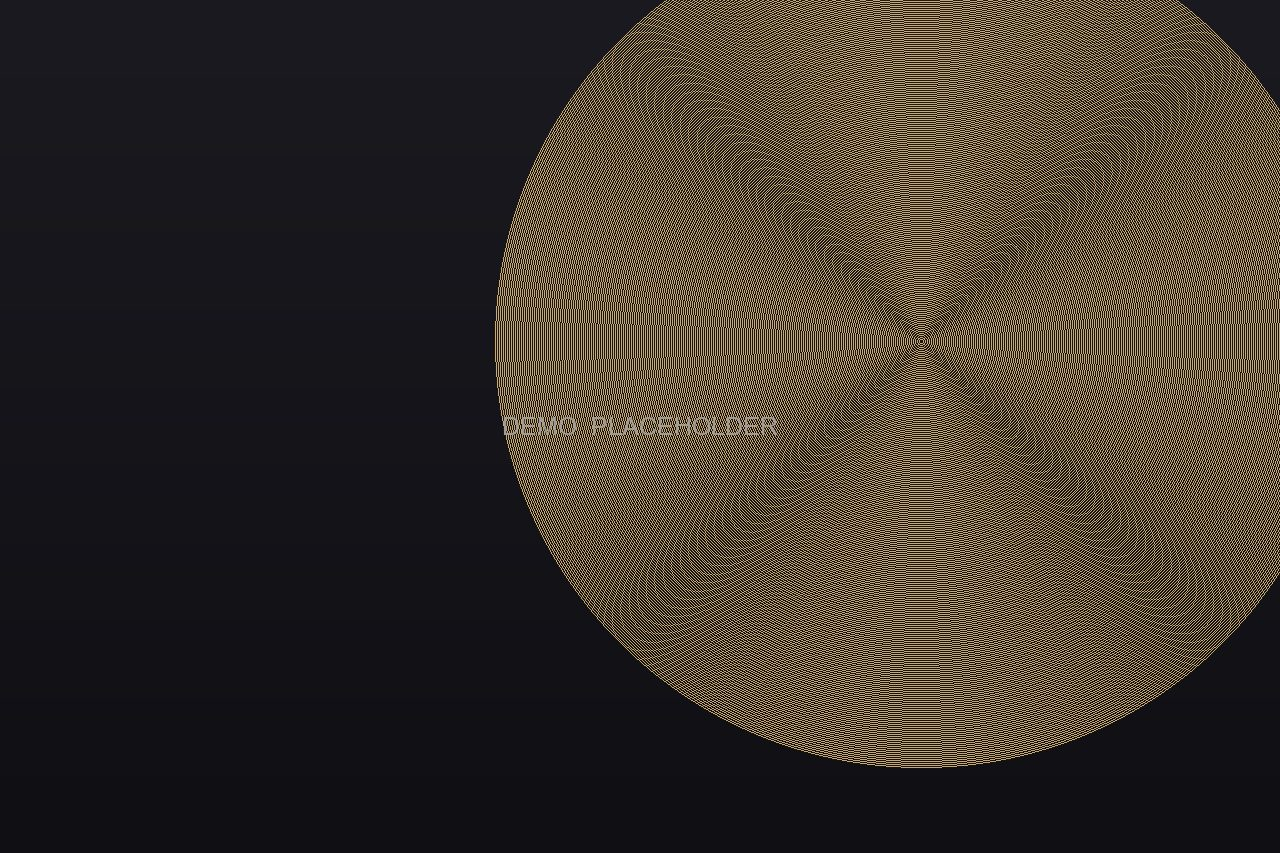
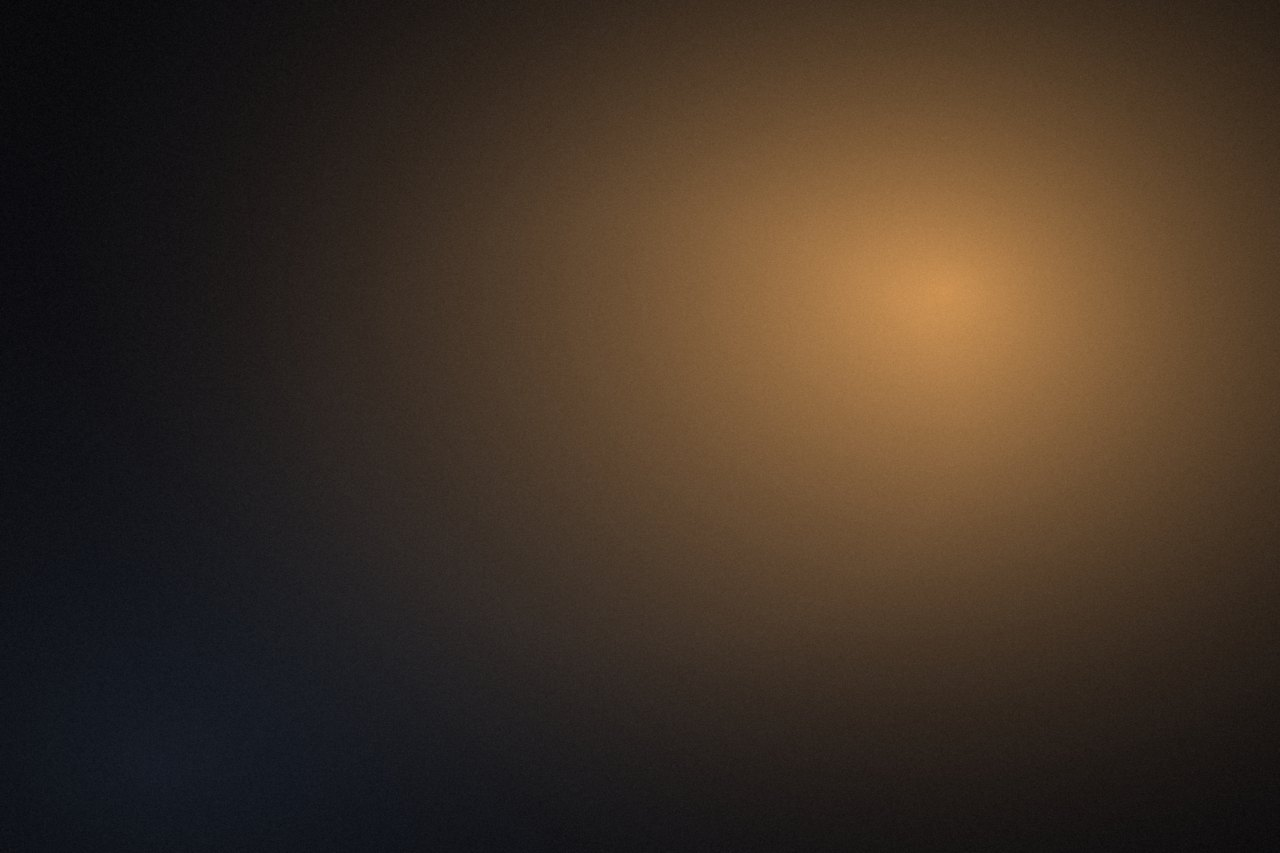
Remove signature, update hero image

diff --git a/about/index.html b/about/index.html
@@ -85,7 +85,6 @@
 <header class="nav" id="top">
   <div class="nav__inner">
     <a href="/personal-brand-cms/" class="brand" aria-label="Adrian Cole — home">
-      <img class="brand__sig" src="/personal-brand-cms/assets/img/signature-white.png" alt="" aria-hidden="true" />
       <span class="brand__lock">
         <span class="brand__mark">Adrian Cole</span>
         <span class="brand__sub">Author · Leader</span>
@@ -184,7 +183,6 @@
             <li><span class="mk"></span> an entrepreneurship program · an advisory council · a global executive program alumnus</li>
           </ul>
           <div class="story__sign" data-reveal data-reveal-delay="3" style="margin-top:2.2rem">
-            <img src="/personal-brand-cms/assets/img/signature-white.png" alt="Adrian Cole signature" width="130" loading="lazy" />
             <div>
               <div class="who">Adrian Cole</div>
               <div class="role">FCA · Author · Founder</div>
@@ -413,7 +411,6 @@
       <div class="footer__brand">
         <span class="brand__mark">Adrian Cole</span>
         <p class="footer__tag">Author, entrepreneur and business leader writing at the intersection of inner growth and the human systems through which we create meaning.</p>
-        <img class="footer__sign" src="/personal-brand-cms/assets/img/signature-white.png" alt="Adrian Cole signature" loading="lazy" />
       </div>
       <div class="footer__col">
         <h4>Explore</h4>

diff --git a/through-the-storm/index.html b/through-the-storm/index.html
@@ -74,7 +74,6 @@
 <header class="nav" id="top">
   <div class="nav__inner">
     <a href="/personal-brand-cms/" class="brand" aria-label="Adrian Cole — home">
-      <img class="brand__sig" src="/personal-brand-cms/assets/img/signature-white.png" alt="" aria-hidden="true" />
       <span class="brand__lock">
         <span class="brand__mark">Adrian Cole</span>
         <span class="brand__sub">Author · Leader</span>
@@ -394,7 +393,6 @@
                 style="font-style:italic">The Ladder</em>.</p>
           </div>
           <div class="story__sign" data-reveal data-reveal-delay="3">
-            <img src="/personal-brand-cms/assets/img/signature-white.png" alt="Adrian Cole signature" width="130" loading="lazy" />
             <div>
               <div class="who">Adrian Cole</div>
               <div class="role">Author · Founder</div>
@@ -450,7 +448,6 @@
       <div class="footer__brand">
         <span class="brand__mark">Adrian Cole</span>
         <p class="footer__tag">Author, entrepreneur and business leader writing at the intersection of inner growth and the human systems through which we create meaning.</p>
-        <img class="footer__sign" src="/personal-brand-cms/assets/img/signature-white.png" alt="Adrian Cole signature" loading="lazy" />
       </div>
       <div class="footer__col">
         <h4>Explore</h4>

diff --git a/index.html b/index.html
@@ -79,7 +79,6 @@
 <header class="nav" id="top">
   <div class="nav__inner">
     <a href="/personal-brand-cms/" class="brand" aria-label="Adrian Cole — home">
-      <img class="brand__sig" src="/personal-brand-cms/assets/img/signature-white.png" alt="" aria-hidden="true" />
       <span class="brand__lock">
         <span class="brand__mark">Adrian Cole</span>
         <span class="brand__sub">Author · Leader</span>
@@ -190,7 +189,6 @@
               Consulting.</p>
           </div>
           <div class="story__sign" data-reveal data-reveal-delay="3">
-            <img src="/personal-brand-cms/assets/img/signature-white.png" alt="Adrian Cole signature" width="130" loading="lazy" />
             <div>
               <div class="who">Adrian Cole</div>
               <div class="role">Author · Founder, Lighthouse Advisory</div>
@@ -413,7 +411,6 @@
       <div class="footer__brand">
         <span class="brand__mark">Adrian Cole</span>
         <p class="footer__tag">Author, entrepreneur and business leader writing at the intersection of inner growth and the human systems through which we create meaning.</p>
-        <img class="footer__sign" src="/personal-brand-cms/assets/img/signature-white.png" alt="Adrian Cole signature" loading="lazy" />
       </div>
       <div class="footer__col">
         <h4>Explore</h4>

diff --git a/404.html b/404.html
@@ -45,7 +45,6 @@
 <header class="nav" id="top">
   <div class="nav__inner">
     <a href="/personal-brand-cms/" class="brand" aria-label="Adrian Cole — home">
-      <img class="brand__sig" src="/personal-brand-cms/assets/img/signature-white.png" alt="" aria-hidden="true" />
       <span class="brand__lock">
         <span class="brand__mark">Adrian Cole</span>
         <span class="brand__sub">Author · Leader</span>
@@ -108,7 +107,6 @@
       <div class="footer__brand">
         <span class="brand__mark">Adrian Cole</span>
         <p class="footer__tag">Author, entrepreneur and business leader writing at the intersection of inner growth and the human systems through which we create meaning.</p>
-        <img class="footer__sign" src="/personal-brand-cms/assets/img/signature-white.png" alt="Adrian Cole signature" loading="lazy" />
       </div>
       <div class="footer__col">
         <h4>Explore</h4>

diff --git a/blog/index.html b/blog/index.html
@@ -45,7 +45,6 @@
 <header class="nav" id="top">
   <div class="nav__inner">
     <a href="/personal-brand-cms/" class="brand" aria-label="Adrian Cole — home">
-      <img class="brand__sig" src="/personal-brand-cms/assets/img/signature-white.png" alt="" aria-hidden="true" />
       <span class="brand__lock">
         <span class="brand__mark">Adrian Cole</span>
         <span class="brand__sub">Author · Leader</span>
@@ -114,7 +113,6 @@
       <div class="footer__brand">
         <span class="brand__mark">Adrian Cole</span>
         <p class="footer__tag">Author, entrepreneur and business leader writing at the intersection of inner growth and the human systems through which we create meaning.</p>
-        <img class="footer__sign" src="/personal-brand-cms/assets/img/signature-white.png" alt="Adrian Cole signature" loading="lazy" />
       </div>
       <div class="footer__col">
         <h4>Explore</h4>

diff --git a/books/index.html b/books/index.html
@@ -45,7 +45,6 @@
 <header class="nav" id="top">
   <div class="nav__inner">
     <a href="/personal-brand-cms/" class="brand" aria-label="Adrian Cole — home">
-      <img class="brand__sig" src="/personal-brand-cms/assets/img/signature-white.png" alt="" aria-hidden="true" />
       <span class="brand__lock">
         <span class="brand__mark">Adrian Cole</span>
         <span class="brand__sub">Author · Leader</span>
@@ -209,7 +208,6 @@
       <div class="footer__brand">
         <span class="brand__mark">Adrian Cole</span>
         <p class="footer__tag">Author, entrepreneur and business leader writing at the intersection of inner growth and the human systems through which we create meaning.</p>
-        <img class="footer__sign" src="/personal-brand-cms/assets/img/signature-white.png" alt="Adrian Cole signature" loading="lazy" />
       </div>
       <div class="footer__col">
         <h4>Explore</h4>

diff --git a/contact/index.html b/contact/index.html
@@ -68,7 +68,6 @@
 <header class="nav" id="top">
   <div class="nav__inner">
     <a href="/personal-brand-cms/" class="brand" aria-label="Adrian Cole — home">
-      <img class="brand__sig" src="/personal-brand-cms/assets/img/signature-white.png" alt="" aria-hidden="true" />
       <span class="brand__lock">
         <span class="brand__mark">Adrian Cole</span>
         <span class="brand__sub">Author · Leader</span>
@@ -231,7 +230,6 @@
       <div class="footer__brand">
         <span class="brand__mark">Adrian Cole</span>
         <p class="footer__tag">Author, entrepreneur and business leader writing at the intersection of inner growth and the human systems through which we create meaning.</p>
-        <img class="footer__sign" src="/personal-brand-cms/assets/img/signature-white.png" alt="Adrian Cole signature" loading="lazy" />
       </div>
       <div class="footer__col">
         <h4>Explore</h4>
